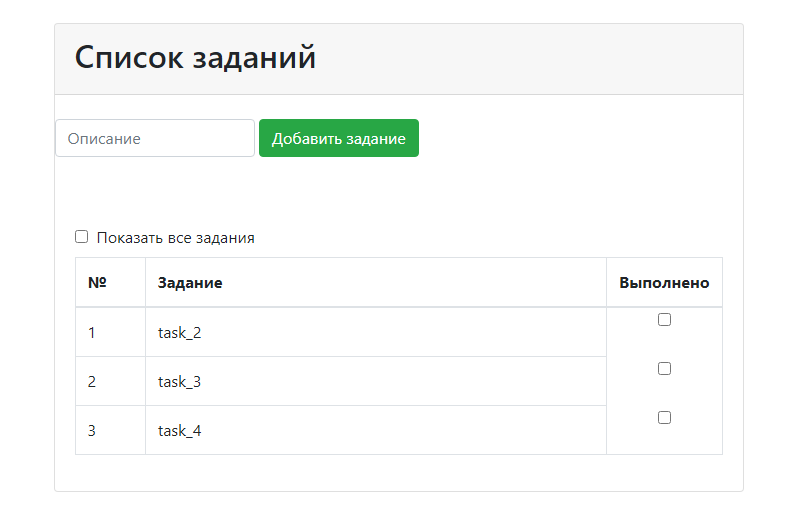
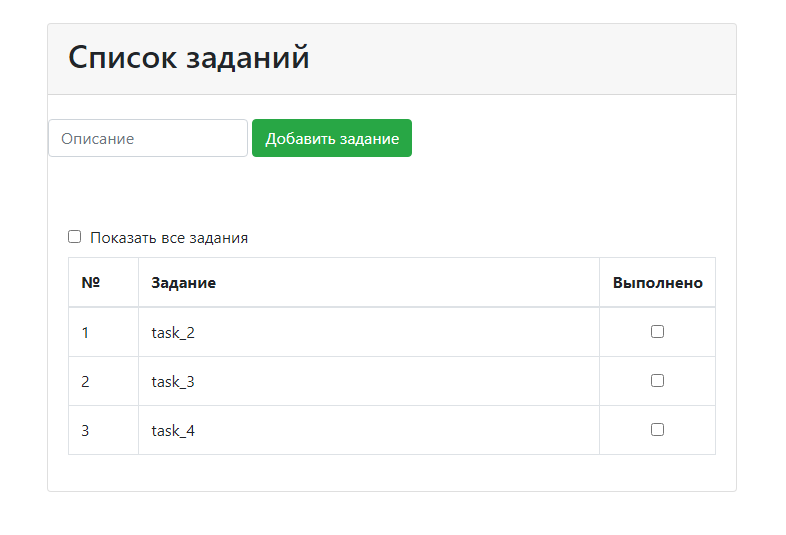
Создать TODO list [#3786]

diff --git a/src/main/webapp/index.html b/src/main/webapp/index.html
@@ -16,6 +16,7 @@
 <script src="https://cdnjs.cloudflare.com/ajax/libs/popper.js/1.12.9/umd/popper.min.js" integrity="sha384-ApNbgh9B+Y1QKtv3Rn7W3mgPxhU9K/ScQsAP7hUibX39j7fakFPskvXusvfa0b4Q" crossorigin="anonymous"></script>
 <script src="https://maxcdn.bootstrapcdn.com/bootstrap/4.0.0/js/bootstrap.min.js" integrity="sha384-JZR6Spejh4U02d8jOt6vLEHfe/JQGiRRSQQxSfFWpi1MquVdAyjUar5+76PVCmYl" crossorigin="anonymous"></script>
 <script src="https://ajax.googleapis.com/ajax/libs/jquery/3.3.1/jquery.min.js"></script>
+<script src="table.js"></script>
 
 <div class="container">
     <br>
@@ -24,8 +25,6 @@
         <h2>Список заданий</h2>
     </div>
         <br>
-
-<!--    <br><h2>Список заданий</h2><br>-->
     <div>
         <form class="form-inline" action="http://localhost:8080/job4j_todo/task" method="post">
             <div>
@@ -36,8 +35,8 @@
     </div>
     <br><br>
     <div class="card-body">
+        <input type="checkbox" name="select" onclick="getTasks()"><label>&nbsp Показать все задания</label>
         <table class="table table-bordered">
-                <input type="checkbox" name="select" onclick="getTasks()"><label>&nbsp Показать все задания</label>
             <thead>
             <tr>
                 <th style="width: 80px;">№</th>
@@ -51,58 +50,5 @@
     </div>
     </div>
 </div>
-
-<script>
-    function validate() {
-        let rsl = true
-        let atr = $('.form-control')
-        for (let node of atr) {
-            if (node.value === '' || node.value === null) {
-                alert("Поле не заполнено");
-                rsl = false
-                break
-            }
-        }
-        return rsl
-    }
-    function getTasks() {
-        let allTasks = false
-        if (document.querySelector("input[name=select]:checked")) {
-            allTasks = true
-        }
-        $.ajax({
-            type: 'GET',
-            crossDomain : true,
-            url: 'http://localhost:8080/job4j_todo/task?allTasks=' + allTasks,
-            dataType: 'text',
-        }).done(function(data) {
-            let dt = JSON.parse(data)
-            console.log(data)
-            for (const [key, value] of Object.entries(dt)) {
-                let parent = document.querySelector('tbody')
-                parent.textContent = ''
-                 for (let i = 0; i < value.length; i++) {
-                     let tr = document.createElement('tr')
-                     let numb = document.createElement('td')
-                     numb.innerHTML = `${i + 1}`
-                     let desc = document.createElement('td')
-                     desc.innerHTML = `${value[i].description}`
-                     let divCenter = document.createElement('div')
-                     divCenter.style.textAlign = "center"
-                     let done = document.createElement('input')
-                     done.type = "checkbox"
-                     if (value[i].done) {
-                         done.setAttribute("checked", "checked")
-                     }
-                     divCenter.appendChild(done)
-                     tr.appendChild(numb)
-                     tr.appendChild(desc)
-                     tr.appendChild(divCenter)
-                     parent.appendChild(tr)
-                 }
-            }
-        });
-    }
-</script>
 </body>
 </html>

diff --git a/src/main/webapp/table.js b/src/main/webapp/table.js
@@ -1,0 +1,61 @@
+function validate() {
+    let rsl = true
+    let atr = $('.form-control')
+    for (let node of atr) {
+        if (node.value === '' || node.value === null) {
+            alert("Поле не заполнено");
+            rsl = false
+            break
+        }
+    }
+    return rsl
+}
+
+function getTasks(id) {
+    let url
+    let allTasks = false
+    if (document.querySelector("input[name=select]:checked")) {
+        allTasks = true
+    }
+    if (id == null) {
+        url = 'http://localhost:8080/job4j_todo/task?allTasks=' + allTasks
+    } else {
+        url = 'http://localhost:8080/job4j_todo/task?allTasks=' + allTasks + '&complete=' + id
+    }
+
+    $.ajax({
+        type: 'GET',
+        crossDomain : true,
+        url: url,
+        dataType: 'text',
+    }).done(function(data) {
+        let dt = JSON.parse(data)
+        for (const [key, value] of Object.entries(dt)) {
+            let tbody = document.querySelector('tbody')
+            tbody.textContent = ''
+            for (let i = 0; i < value.length; i++) {
+                let tr = document.createElement('tr')
+                let numb = document.createElement('td')
+                numb.innerHTML = `${i + 1}`
+                let desc = document.createElement('td')
+                desc.innerHTML = `${value[i].description}`
+                let done = document.createElement('td')
+                let doneDiv = document.createElement('div')
+                doneDiv.style.textAlign = "center"
+                let doneInput = document.createElement('input')
+                doneInput.type = "checkbox"
+                doneInput.onclick = function() {getTasks(this.id)}
+                doneInput.id = value[i].id
+                if (value[i].done) {
+                    doneInput.setAttribute("checked", "checked")
+                }
+                doneDiv.appendChild(doneInput)
+                done.appendChild(doneDiv)
+                tr.appendChild(numb)
+                tr.appendChild(desc)
+                tr.appendChild(done)
+                tbody.appendChild(tr)
+            }
+        }
+    });
+}

diff --git a/src/main/java/ru/job4j/todo/servlet/TaskServlet.java b/src/main/java/ru/job4j/todo/servlet/TaskServlet.java
@@ -4,7 +4,6 @@ import org.json.JSONObject;
 import ru.job4j.todo.model.Item;
 import ru.job4j.todo.store.PsqlStore;
 
-
 import javax.servlet.http.HttpServlet;
 import javax.servlet.http.HttpServletRequest;
 import javax.servlet.http.HttpServletResponse;
@@ -20,6 +19,11 @@ public class TaskServlet extends HttpServlet {
     public void doGet(HttpServletRequest req, HttpServletResponse resp) throws IOException {
         resp.setContentType("text/plain");
         resp.setCharacterEncoding("UTF-8");
+
+        if (req.getParameter("complete") != null) {
+            PsqlStore.instOf().updateTask(Integer.parseInt(req.getParameter("complete")));
+        }
+
 
         List<Item> items;
         if ("true".equals(req.getParameter("allTasks"))) {

diff --git a/src/main/java/ru/job4j/todo/store/PsqlStore.java b/src/main/java/ru/job4j/todo/store/PsqlStore.java
@@ -54,4 +54,15 @@ public class PsqlStore implements Store, AutoCloseable {
         session.getTransaction().commit();
         session.close();
     }
+
+    @Override
+    public void updateTask(int id) {
+        Session session = sf.openSession();
+        session.beginTransaction();
+        Item item = session.get(Item.class, id);
+        item.setDone(true);
+        session.update(item);
+        session.getTransaction().commit();
+        session.close();
+    }
 }

diff --git a/src/main/java/ru/job4j/todo/store/Store.java b/src/main/java/ru/job4j/todo/store/Store.java
@@ -8,4 +8,5 @@ public interface Store {
     List<Item> getTasks();
     List<Item> getCurrentTasks();
     void addTask(Item item);
+    void updateTask(int id);
 }
